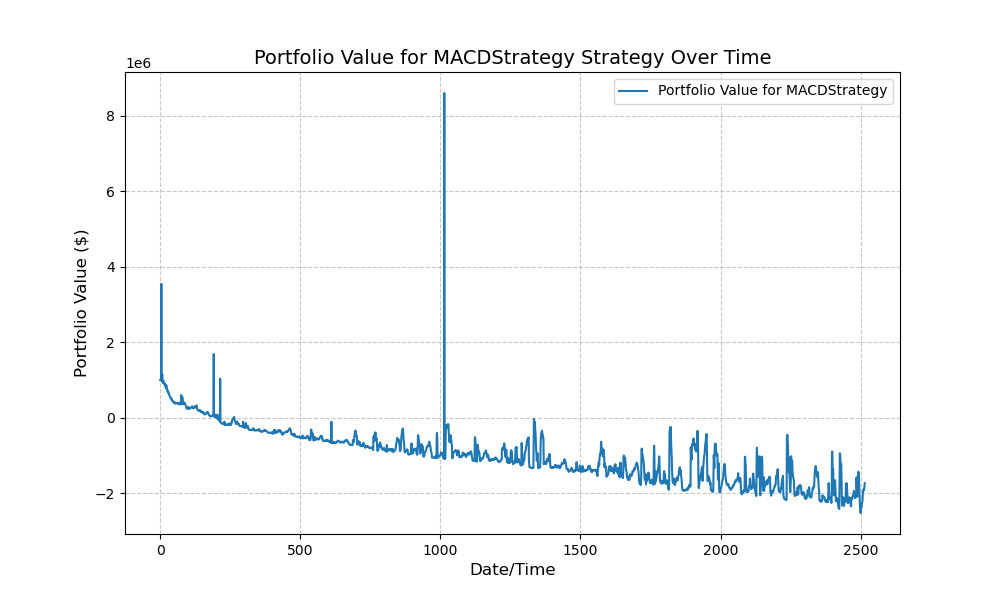
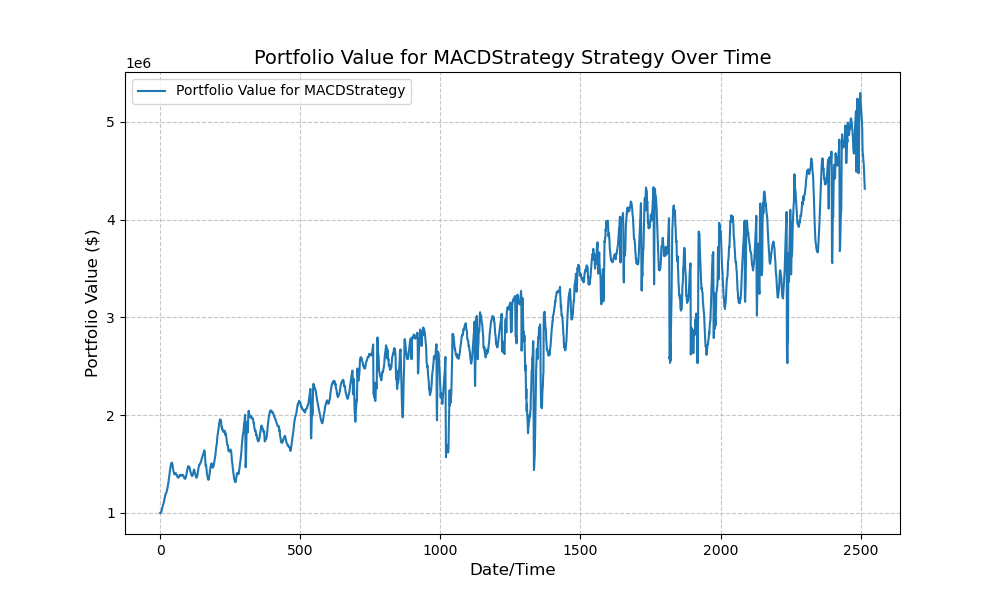
BenchMark refractored and improved simulator logic

diff --git a/Simulator.py b/Simulator.py
@@ -3,6 +3,7 @@ from MACDStrategy import MACDStrategy
 from VolatilityBreakoutStrategy import VolatilityBreakoutStrategy
 from RSIStrategy import RSIStrategy
 from PriceLoader import PriceLoader
+from BenchmarkStrategy import BenchmarkStrategy
 import matplotlib.pyplot as plt
 import pandas as pd
 import os
@@ -18,46 +19,59 @@ class Simulator:
         vol = VolatilityBreakoutStrategy(self.prices, self.tickers)
         rsi = RSIStrategy(self.prices, self.tickers)
         mac = MACDStrategy(self.prices, self.tickers)
-        self.strat = [ma, vol, rsi, mac]
+        bm = BenchmarkStrategy(self.prices,self.tickers)
+        self.strat = [ma,vol,rsi,mac,bm]
     
     def simulate_trade(self, strategy):
         sigs:pd.DataFrame = strategy.generate_signals()
-        for time, s in sigs.iterrows():
-            
-            position_value = 0
-            for tick in self.tickers:
-                #Get new price for given stock at time t
-                price = self.prices.loc[time,tick].astype(float)
-                #update value of portfolio for given stock
-                if strategy.positions[tick]['position_value']>0:
-                    strategy.positions[tick]['position_value'] = (price/strategy.positions[tick]['position_value'] - 1)*100
 
-                #Update positions if there is a buy or sell signal
-                if s[tick]==1:
-                    if strategy.cash > price:
-                        strategy.positions[tick]['position_value'] += price
-                        position_value += strategy.positions[tick]['position_value']
-                        strategy.positions[tick]['shares'] +=1 
-                        strategy.cash -= price
-                elif s[tick]==-1:
-                    if strategy.positions[tick]['shares']>0:
-                        strategy.positions[tick]['position_value'] -=price
-                        position_value += strategy.positions[tick]['position_value']
-                        strategy.positions[tick]['shares'] -=1 
-                        strategy.cash += price
-                else:
-                    continue
+        for time, s in sigs.iterrows():
+            total_position_value = 0
             
-            strategy.portfolio_value.append(float(strategy.cash+position_value))
+            for tick in self.tickers:
+                # Get new price for given stock at time t
+                price = self.prices.loc[time,tick].astype(float)
+                
+                # Update current market value of existing positions
+                if strategy.positions[tick]['shares'] > 0:
+                    strategy.positions[tick]['position_value'] = strategy.positions[tick]['shares'] * price
+                    total_position_value += strategy.positions[tick]['position_value']
+                
+                # Update positions if there is a buy or sell signal
+                if s[tick] == 1:  # Buy signal
+                    if strategy.cash >= price:
+                        shares_to_buy = 1
+                        cost = shares_to_buy * price
+                        strategy.positions[tick]['shares'] += shares_to_buy
+                        strategy.positions[tick]['position_value'] = strategy.positions[tick]['shares'] * price
+                        strategy.cash -= cost
+                        total_position_value += strategy.positions[tick]['position_value']
+                        
+                elif s[tick] == -1:  # Sell signal
+                    if strategy.positions[tick]['shares'] > 0:
+                        shares_to_sell = 1
+                        proceeds = shares_to_sell * price
+                        strategy.positions[tick]['shares'] -= shares_to_sell
+                        strategy.cash += proceeds
+                        if strategy.positions[tick]['shares'] > 0:
+                            strategy.positions[tick]['position_value'] = strategy.positions[tick]['shares'] * price
+                            total_position_value += strategy.positions[tick]['position_value']
+                        else:
+                            strategy.positions[tick]['position_value'] = 0
+            
+            # Calculate total portfolio value (cash + market value of all positions)
+            strategy.portfolio_value.append(float(strategy.cash + total_position_value))
 
     def run_strats(self):
-        names = ['MovingAverageStrategy', 'VolatilityBreakoutStrategy', 'RSIStrategy', 'MACDStrategy']
+        names = ['MovingAverageStrategy', 'VolatilityBreakoutStrategy', 'RSIStrategy', 'MACDStrategy', 'BenchmarkStrategy']
+        #names = ['BenchmarkStrategy']
         for n,s in zip(names,self.strat):
             print(f'Simulating {n} ')
-            self.simulate_trade(s)
+            self.simulate_trade(s)       
     
     def plot_portoflio(self):
-        names = ['MovingAverageStrategy', 'VolatilityBreakoutStrategy', 'RSIStrategy', 'MACDStrategy']
+        names = ['MovingAverageStrategy', 'VolatilityBreakoutStrategy', 'RSIStrategy', 'MACDStrategy', 'BenchmarkStrategy']
+        #names = ['BenchmarkStrategy']
         DIR = 'Plots'
         os.makedirs('Plots', exist_ok=True)
         for n, s in zip(names, self.strat):

diff --git a/BenchmarkStrategy.py b/BenchmarkStrategy.py
@@ -1,50 +1,72 @@
+from AbstractStrategy import Strategy
 from PriceLoader import PriceLoader
+import pandas as pd
 
-class BenchMarkStrategy:
-    def __init__(self,x):
-        super()
-        self.pl = PriceLoader()
-        self.tickers = self.pl.available_ticker
-        self.x_shares = x
+class BenchmarkStrategy(Strategy):
+    def __init__(self, prices:pd.DataFrame, tickers:list):
+        super().__init__()
+        self._symbol = tickers
+        self._prices:pd.DataFrame = prices
+        self.x_shares = 5
         self.cash = 1_000_000
         self.portfolio_value = [self.cash]
-        self.positions = {}
+        self.positions = {t: {'position_value': 0, 'shares': 0} for t in self._symbol}
+
+    def generate_signals(self):
+        """
+        Benchmark strategy: Buy and hold - buy equal amounts of all stocks at the beginning
+        and hold them throughout the entire period.
+        """
+        prices = self._prices.astype(float)
+        # Create signal DataFrame initialized to 0
+        sigs = pd.DataFrame(0, index=prices.index, columns=prices.columns)
+        
+        # Buy signal only on the first day for all stocks
+        sigs.iloc[0] = 1
+        
+        return sigs
 
     def initial_pos(self):
-        for i in self.tickers:
+        """
+        Initialize positions by buying equal amounts of all available stocks
+        """
+        # Calculate equal allocation per stock
+        available_cash = self.cash
+        num_stocks = len(self._symbol)
+        
+        if num_stocks == 0:
+            return
+            
+        cash_per_stock = available_cash / num_stocks
+        
+        for ticker in self._symbol:
             try:
-                price = self.pl.load_price_data(i)
-                cur_price = price.iloc[0].iloc[0]
-                value = self.x_shares*float(cur_price)
-                if value > self.cash:
-                    self.tickers.remove(i)
+                # Get the first available price for this ticker
+                price_series = self._prices[ticker].dropna()
+                if len(price_series) == 0:
                     continue
-                self.cash -= value
-                list_pos = price.values.tolist()
-                list_pos = [i[0] for i in list_pos]
-                self.positions[i] =  {
-                    'value': cur_price,
-                    'purchase_price': float(cur_price),
-                    'list_price': list_pos}
+                    
+                initial_price = price_series.iloc[0]
+                shares_to_buy = int(cash_per_stock / initial_price)
+                
+                if shares_to_buy > 0:
+                    cost = shares_to_buy * initial_price
+                    self.cash -= cost
+                    self.positions[ticker]['shares'] = shares_to_buy
+                    self.positions[ticker]['position_value'] = cost
+                    
             except Exception as e:
-                self.tickers.remove(i)
-                print(e)
+                print(f'Error initializing position for {ticker}: {e}')
+                continue
 
-    def run(self):
-        sum = 0
-        for i in range(1, 2516):
-            for tick in self.positions.keys():
-                prices = self.positions[tick]['list_price']
-                cur_price = float(prices[i])
-                purchase_price = self.positions[tick]['purchase_price']
-                value = purchase_price*(float(cur_price)/purchase_price - 1)*100
-                self.positions[tick]['value'] = value
-                sum += value
-            sum += self.cash
-            self.portfolio_value.append(sum)
-
+   
 if __name__ == '__main__':
-    x = 5
-    bm = BenchMarkStrategy(x)
+    pl = PriceLoader()
+    tickers = pl.available_ticker
+    stocks ={t:pl.load_price_data(t) for t in tickers}
+    prices = pd.concat(stocks, axis=1)
+    bm = BenchmarkStrategy(prices,tickers)
     bm.initial_pos()
     bm.run()
+    print(f"Initial cash: {bm.cash}")
+    print(f"Positions: {bm.positions}")

diff --git a/MovingAverageStrategy.py b/MovingAverageStrategy.py
@@ -1,22 +1,20 @@
 from AbstractStrategy import Strategy
-from PriceLoader import PriceLoader
 import pandas as pd
 
 class MovingAverageStrategy(Strategy):
     def __init__(self, prices:pd.DataFrame, tickers:list):
         super().__init__
         self._short_window = 20
-        self.cash = 1_000_000
         self._symbol = tickers
         self._long_window = 50
         self._prices:pd.DataFrame = prices
-        self.portfolio_value = []
         self.positions = { t:{'position_value':0,
                               'shares':0} for t in self._symbol}
-
+        self.cash = 1_000_000
+        self.portfolio_value = [self.cash]
+        
     def generate_signals(self):
         prices = self._prices.astype(float)
-
         # Compute short and long moving averages for all tickers at once
         ma_short = prices.rolling(self._short_window, min_periods=1).mean()
         ma_long = prices.rolling(self._long_window, min_periods=1).mean()

diff --git a/VolatilityBreakoutStrategy.py b/VolatilityBreakoutStrategy.py
@@ -12,7 +12,6 @@ class VolatilityBreakoutStrategy(Strategy):
         self.positions = { t:{'position_value':0,
                               'shares':0} for t in self._symbol}
 
-    
     def generate_signals(self):
         s = self._prices.astype(float)
         returns = s.pct_change()
